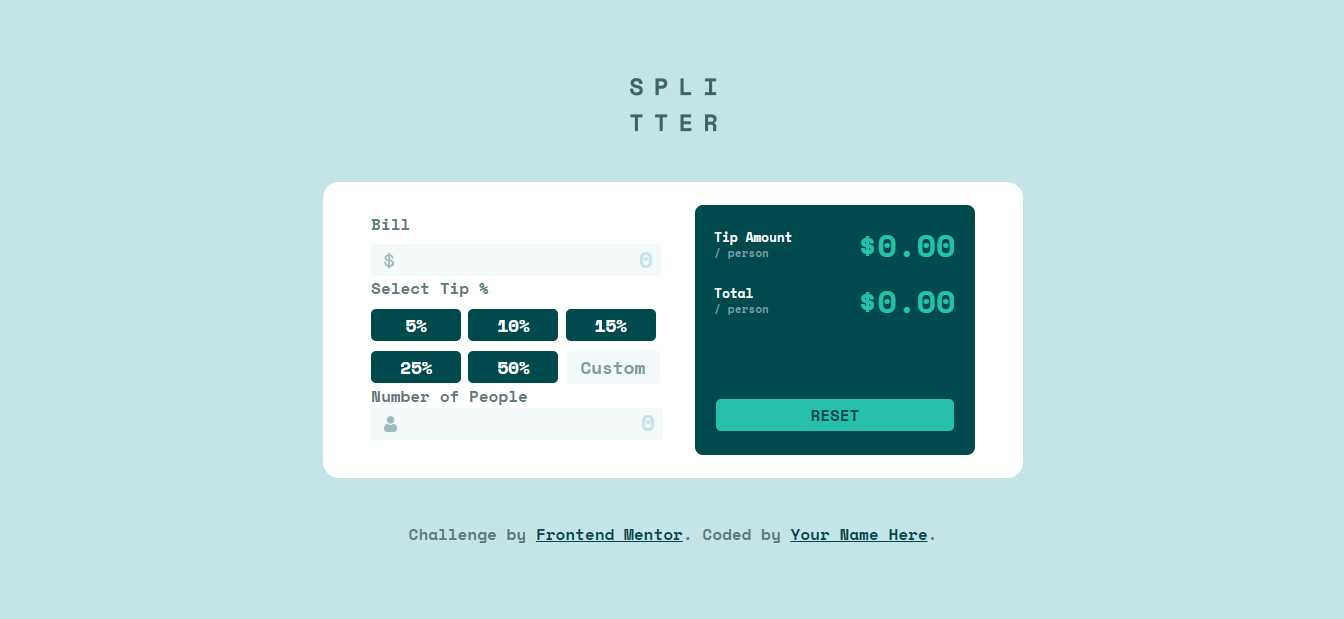
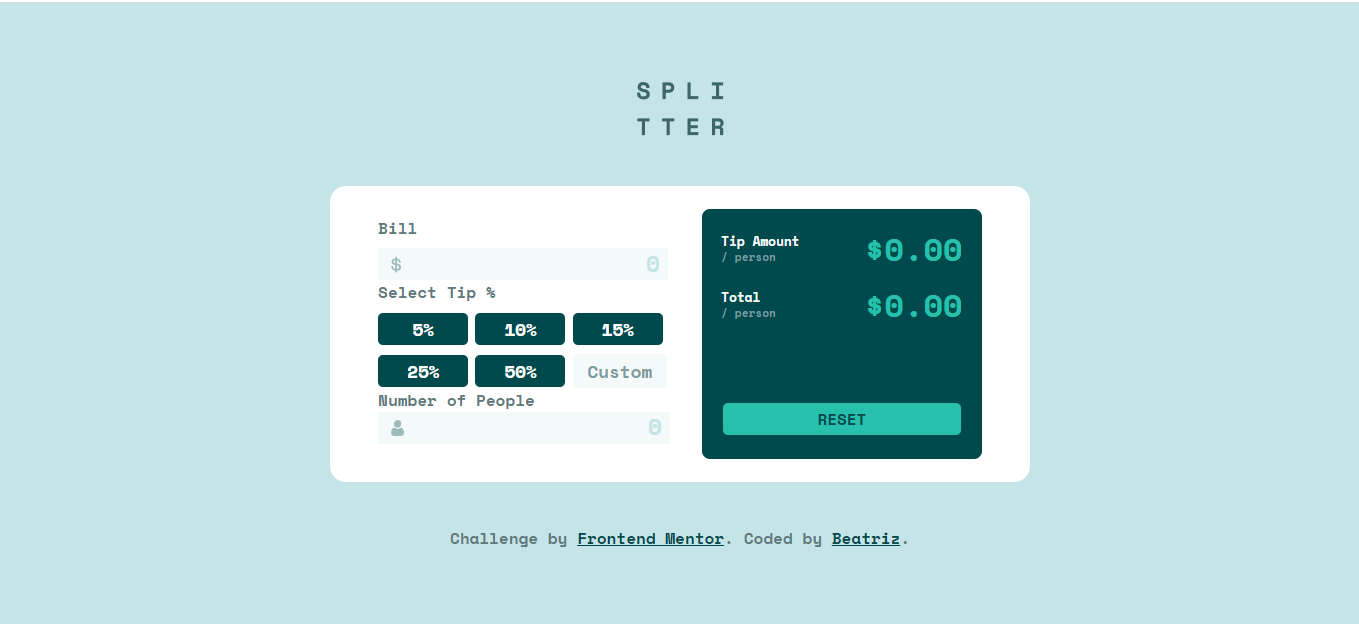
Correcion de imagenes en README

diff --git a/index.html b/index.html
@@ -78,7 +78,7 @@
   
   <footer class="attribution">
     Challenge by <a href="https://www.frontendmentor.io?ref=challenge" target="_blank">Frontend Mentor</a>. 
-    Coded by <a href="#">Your Name Here</a>.
+    Coded by <a target="_blank" href="https://github.com/beatrizang">Beatriz</a>.
   </footer>
 </body>
 </html>

diff --git a/README.md b/README.md
@@ -37,7 +37,7 @@ Users should be able to:
 ### Links
 
 - Solution URL: 
-- Live Site URL: 
+- Live Site URL: https://earnest-chebakia-e15238.netlify.app/
 
 ## My process
 
